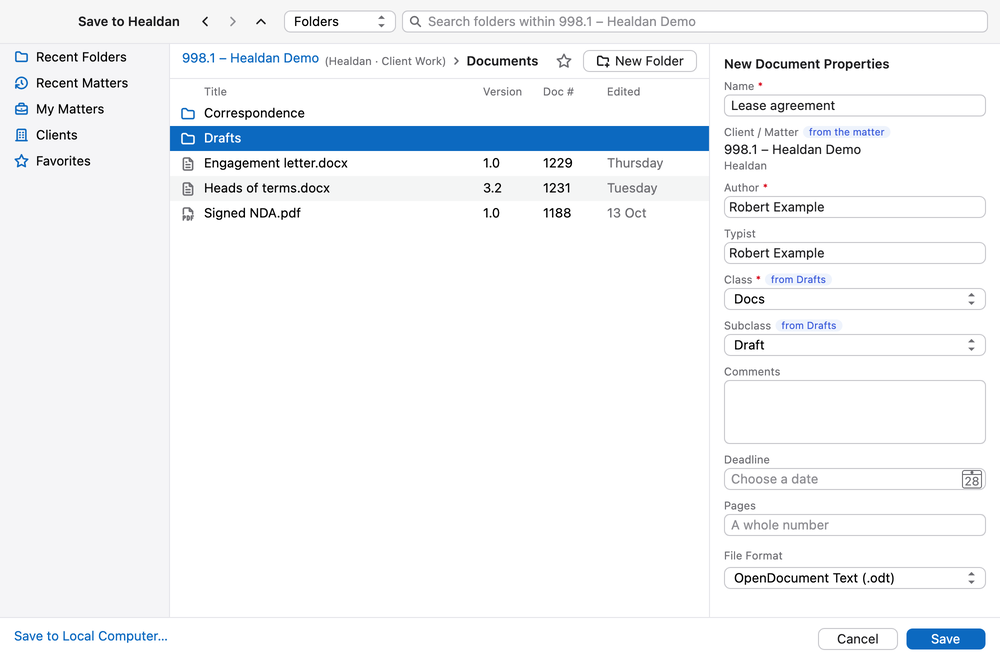
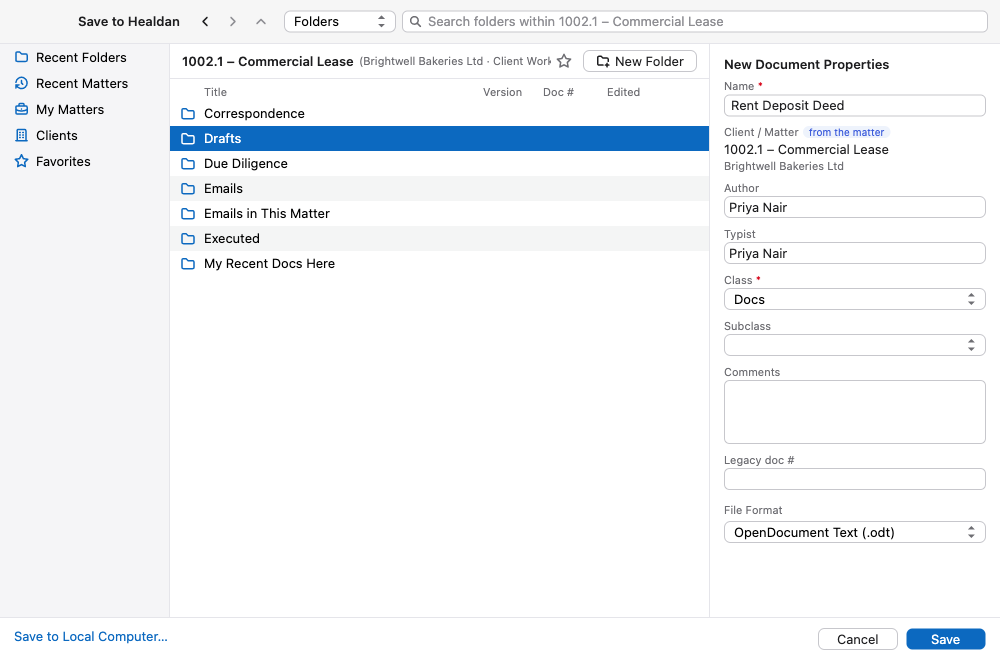
Retake the helper's screenshots from the demo firm
Six of the helper's seven pictures were offscreen renders with test data (Healdan
Demo, Robert Example, Jane Smith, MacBook). They are now screenshots of the real
helper, run from source in London time and signed in to the demo stack as Priya
Nair, captured with Avalonia's Developer Tools: Sign In, Open from Healdan and the
warning for #54, checked out on a device named Office PC, Save to Healdan in
1002.1's Drafts, #32's Properties, and the window after LibreOffice was stopped
with #32 open. Their alt text, the examples that named the old data (here and on
three other pages) and the API page's examples now use the demo firm. Writing Docs
says how the helper's pictures are taken. Settings is still the render.

diff --git a/site/content/user/office/opening-documents/index.md b/site/content/user/office/opening-documents/index.md
@@ -3,9 +3,6 @@ title: Opening Documents
 weight: 3
 ---
 
-<!-- The pictures of the helper's windows on this page are renders of its real windows, drawn offscreen with test
-data, not screenshots. Replace them with screenshots during the owner's acceptance (M3 plan, Task 21). -->
-
 You can open a Healdan document in LibreOffice from the web page, or from inside LibreOffice. Either way, a document
 you can edit opens checked out to you, and one you can't opens as a read-only copy.
 
@@ -34,14 +31,14 @@ Double-clicking a document in the web page still shows its preview.
 Any of LibreOffice's ways of opening shows the **Open from Healdan** window: **⌘O**, **File › Open**, **Open File**
 in the Start Center, and **Healdan › Open from Healdan…**. So does **Open from Healdan…** in the helper's menu.
 
-![The Open from Healdan window: Recent Documents listed in the middle, Lease agreement.docx selected and checked out to you on MacBook, and its details on the right, under a header with its name, #1234 and v2.1, and Properties and Versions tabs, with Properties showing, its Client row under Matter](open-from-healdan.png)
+![The Open from Healdan window: Recent Documents listed in the middle, Particulars of Claim – Draft.docx selected and checked out to you on Office PC, and its details on the right, under a header with its name, #54 and v2.0, and Properties and Versions tabs, with Properties showing its thumbnail, its matter 1001.1 – Charter Dispute – MV Northern Star, its client, folder, author, Class and Subclass, when it was last saved, and that it's checked out to you on Office PC](open-from-healdan.png)
 
 - **On the left:** Recent Documents (where it starts), Checked Out to Me and Favorites, then Recent Matters, My
   Matters and Recent Folders to browse.
 - **In the middle:** each document's title, doc #, version, matter, and when it was last saved. Under the title,
-  who has it checked out: "checked out to you on MacBook", or "checked out to Jane Smith". The Matter column shows
+  who has it checked out: "checked out to you on Office PC", or "checked out to Jamie Clarke". The Matter column shows
   the matter's number: point at it to see the matter's name and its client.
-- **Matters** are listed with their client's name after them, in smaller type: `998.1 – Healdan Demo (Healdan)`.
+- **Matters** are listed with their client's name after them, in smaller type: `1002.1 – Commercial Lease (Brightwell Bakeries Ltd)`.
 - **On the right:** the selected document's details. A header names it, with its doc # and version, as in
   `#1234 · v2.1`. Its star adds the document to your Favorites, or takes it off. Two tabs sit under the header:
   - **Properties,** where each Open window starts, shows a small preview of the first page, when Healdan has made
@@ -80,7 +77,7 @@ A document opens as a read-only copy when:
 - you may read it but not edit it;
 - you ticked Open Read-Only, or chose an older version.
 
-Its title ends in "(read-only)", and a notice says why, such as "Opened read-only: Jane Smith has it checked out."
+Its title ends in "(read-only)", and a notice says why, such as "Opened read-only: Jamie Clarke has it checked out."
 LibreOffice opens it read-only. Nothing you do to it reaches the document: saving it shows Save as New Document
 instead, which files your changes as a new document (see
 [Editing and Versions](../editing-and-versions/#save-as-new-document)). The copy is deleted when you close it.
@@ -89,7 +86,7 @@ instead, which files your changes as a new document (see
 
 If you have the document checked out on another of your computers, the helper asks first:
 
-![The Checked Out on Another Computer window: Healdan's mark with a warning triangle, then #1234 is checked out to you on MacBook (LibreOffice), when it was last saved to Healdan, a warning that edits on MacBook that haven't reached Healdan won't be in this copy, and the Open Read-Only, Edit Here Instead and Cancel buttons](checked-out-on-another-computer.png)
+![The Checked Out on Another Computer window: Healdan's mark with a warning triangle, then #54 is checked out to you on Office PC (LibreOffice), when it was last saved to Healdan, a warning that edits on Office PC that haven't reached Healdan won't be in this copy, and the Open Read-Only, Edit Here Instead and Cancel buttons](checked-out-on-another-computer.png)
 
 - **Open Read-Only** opens a read-only copy here, and leaves the check-out where it is.
 - **Edit Here Instead** moves the check-out to this computer and opens the document for editing. What you saved on

diff --git a/site/content/user/office/saving-to-healdan/index.md b/site/content/user/office/saving-to-healdan/index.md
@@ -3,9 +3,6 @@ title: Saving to Healdan
 weight: 2
 ---
 
-<!-- The picture of the Save to Healdan window is a render of the helper's real window, drawn offscreen with test
-data, not a screenshot. Replace it with a screenshot during the owner's acceptance (M3 plan, Task 21). -->
-
 A new document goes into Healdan the first time you save it, through the **Save to Healdan** window. It works the
 same in Writer, Calc, Impress and Draw.
 
@@ -17,7 +14,7 @@ On a document that isn't in Healdan yet, any of these opens Save to Healdan:
 - **Healdan › Save to Healdan…**, or **Save to Healdan** on the Healdan toolbar;
 - **Save** when LibreOffice asks whether to save your changes as you close the document.
 
-![The Save to Healdan window: places on the left, matter 998.1 – Healdan Demo's Documents folder in the middle, its client Healdan and Store Client Work beside the matter, with the Drafts folder selected, and the new document's properties on the right, Client / Matter showing the matter with Healdan under it, with a File Format pop-up under the properties showing OpenDocument Text (.odt)](save-to-healdan.png)
+![The Save to Healdan window: places on the left, matter 1002.1 – Commercial Lease in the middle, its client Brightwell Bakeries Ltd and Store Client Work beside the matter, with the Drafts folder selected, and the new document's properties on the right: Name Rent Deposit Deed, Client / Matter showing the matter with Brightwell Bakeries Ltd under it, Author and Typist Priya Nair, Class Docs, Subclass, Comments and Legacy doc #, with a File Format pop-up under the properties showing OpenDocument Text (.odt)](save-to-healdan.png)
 
 ## Choosing a Folder
 
@@ -31,9 +28,9 @@ The window starts on **Recent Folders**. Choose where the document goes from the
 | Clients | nothing by itself: it sets the search to Clients, so you can type a client's number or name |
 | Favorites | your favourite folders: see [Favourites](#favourites) |
 
-- **Matters** are listed with their client's name after them, in smaller type: `998.1 – Healdan Demo (Healdan)`.
+- **Matters** are listed with their client's name after them, in smaller type: `1002.1 – Commercial Lease (Brightwell Bakeries Ltd)`.
 - **Double-click a matter or a folder** to go into it. The bar above the list shows where you are, from the matter
-  down, with the matter's client and Store after it: `998.1 – Healdan Demo (Healdan · Client Work) › Documents`.
+  down, with the matter's client and Store after it: `1002.1 – Commercial Lease (Brightwell Bakeries Ltd · Client Work) › Drafts`.
   Click any part of it to go back there. The arrows at the top go back, forward and up.
 - **Click a folder in the list** to file into it, or leave nothing selected to file into the folder shown.
 - **Save turns on** once you've chosen a folder that can hold documents, inside a matter, and every required
@@ -42,8 +39,8 @@ The window starts on **Recent Folders**. Choose where the document goes from the
 ### Searching
 
 The picker beside the search box chooses what to search for: **Folders**, **Documents**, **Matters** or **Clients**.
-Inside a matter, Folders and Documents search only that matter: the box says so, as in "Search folders within 998.1
-– Healdan Demo". Type and press Enter.
+Inside a matter, Folders and Documents search only that matter: the box says so, as in "Search folders within
+1002.1 – Commercial Lease". Type and press Enter.
 
 - **A matter number** such as `998.1`, with Matters chosen, finds that matter.
 - **`#1234`** and Enter goes to the folder of document 1234, with the document selected.

diff --git a/site/content/developer/api.md b/site/content/developer/api.md
@@ -32,7 +32,7 @@ token, as `Authorization: Bearer`. With `curl`, against a stack on your own mach
 ```bash
 BASE=http://127.0.0.1:8080        # or your install's address, such as https://docs.example.org
 curl -s -X POST "$BASE/api/v1/auth/tokens" -H 'Content-Type: application/json' \
-  -d '{"username": "jsmith", "password": "…", "name": "Word on MacBook"}'
+  -d '{"username": "pnair", "password": "…", "name": "Word on Office PC"}'
 ```
 
 The answer is `201`:
@@ -41,9 +41,9 @@ The answer is `201`:
 {
   "token": "hd_bm90LWEtcmVhbC1kZXZpY2UtdG9rZW4tZXhhbXBsZSE",
   "id": 12,
-  "name": "Word on MacBook",
+  "name": "Word on Office PC",
   "expiresAt": "2027-10-24T09:15:00Z",
-  "user": { "id": 7, "username": "jsmith", "name": "Jane Smith", "email": "jane@example.org", "language": "en", "admin": false }
+  "user": { "id": 7, "username": "pnair", "name": "Priya Nair", "email": "priya.nair@ashcombe-reeve.example", "language": "en", "admin": false }
 }
 ```
 
@@ -66,7 +66,7 @@ curl -s "$BASE/api/v1/me" -H "Authorization: Bearer $TOKEN"
 
 ## Device Sign-Ins
 
-Each token is one device's sign-in, such as Word on a MacBook. `name` labels it, so people can tell their devices
+Each token is one device's sign-in, such as Word on a laptop. `name` labels it, so people can tell their devices
 apart; a blank name is "Unnamed device".
 
 - **A token stops working** when it hasn't been used for 30 days, 365 days after sign-in at the latest
@@ -95,9 +95,9 @@ Errors are RFC 9457 problems, sent as `application/problem+json`:
   "type": "https://healdan.com/problems/checked-out",
   "title": "Checked out",
   "status": 409,
-  "detail": "Document #1234 is checked out to Jane Smith.",
+  "detail": "Document #1234 is checked out to Jamie Clarke.",
   "code": "checked-out",
-  "hold": { "kind": "checkout", "by": { "id": 5, "name": "Jane Smith" }, "since": "2026-10-23T15:00:00Z" }
+  "hold": { "kind": "checkout", "by": { "id": 8, "name": "Jamie Clarke" }, "since": "2026-10-23T15:00:00Z" }
 }
 ```
 

diff --git a/site/content/user/office/editing-and-versions/index.md b/site/content/user/office/editing-and-versions/index.md
@@ -3,9 +3,6 @@ title: Editing and Versions
 weight: 4
 ---
 
-<!-- The picture of the Properties window is a render of the helper's real window, drawn offscreen with test data,
-not a screenshot. Replace it with a screenshot during the owner's acceptance (M3 plan, Task 21). -->
-
 While a Healdan document is open in LibreOffice, it's checked out to you, and the window is the helper's local copy
 of it. You edit and save as usual, and the helper sends each save to Healdan.
 
@@ -67,7 +64,7 @@ Choose where it goes, change what you need to, and save. Then:
 Choose **Healdan › Properties…**, or **Properties** on the Healdan toolbar, to see or change the document's
 properties without leaving LibreOffice. They're the properties of the Ext. Properties tab in the web page.
 
-![The Properties window for #1234: a header with the document's icon, Lease agreement.docx, and #1234 · v2.1, then Client / Matter 998.1 – Healdan Demo from the matter, with the client Healdan under it, Author and Typist, Class and Subclass from Drafts, Comments, and two more properties, with Cancel and Save](properties.png)
+![The Properties window for #32: a header with the document's icon, Subscription Agreement – Draft.docx, and #32 · v2.0, then Client / Matter 1003.1 – Series A Investment from the matter, with the client Kestrel Software Ltd under it, Author Helen Ashcombe, Typist Chris Doyle, Class Agreements, Subclass Draft, Comments and Legacy doc #, with Cancel and Save](properties.png)
 
 - **Client / Matter,** marked "from the matter", shows the matter, with its client's name under it. It can't be
   changed here.

diff --git a/site/content/user/office/when-things-go-wrong/index.md b/site/content/user/office/when-things-go-wrong/index.md
@@ -3,9 +3,6 @@ title: When Things Go Wrong
 weight: 6
 ---
 
-<!-- The picture of the crash window is a render of the helper's real window, drawn offscreen with test data, not a
-screenshot. Replace it with a screenshot during the owner's acceptance (M3 plan, Task 21). -->
-
 The helper's first rule is that nothing you save is lost. When something goes wrong, it keeps your work on your Mac
 and tells you, through a notification or, when it needs an answer, a window of its own.
 
@@ -40,7 +37,7 @@ Start **Healdan Helper** from your Applications folder.
 The document stays checked out to you, and your local copy is kept as you last saved it. Within about ten seconds of
 LibreOffice going, or as soon as the helper starts after your Mac restarts, this window opens:
 
-![The crash window: Healdan's mark with a warning triangle, and the headline Lease agreement #1234 v2.1 closed unexpectedly. It's still checked out to you, and your local copy is kept. With the Send and Check In and Reopen buttons](after-a-crash.png)
+![The crash window: Healdan's mark with a warning triangle, and the headline Subscription Agreement – Draft #32 v2.0 closed unexpectedly. It's still checked out to you, and your local copy is kept. With the Send and Check In and Reopen buttons](after-a-crash.png)
 
 - **Reopen** opens your kept copy, with what you last saved, and carries on as before.
 - **Send and Check In** sends what Healdan hasn't had yet, and checks the document in.

diff --git a/site/content/developer/writing-docs.md b/site/content/developer/writing-docs.md
@@ -89,6 +89,13 @@ what's left.
   and give each one alt text.
 - Take them at a true 1280 × 800, with headless Chrome: the browser pane scales the page down. Start Chrome with
   `TZ=Europe/London`, the demo stack's time zone, so the times it shows are the firm's, not your computer's.
+- The Healdan Helper's windows come from a [helper run from source](../desktop-clients/#running-the-helper-from-source),
+  started with `TZ=Europe/London` and signed in to the demo stack as `pnair`. For the pictures only, add the
+  `AvaloniaUI.DiagnosticsSupport` package and `this.AttachDeveloperTools(o => o.EnableDiscovery = true)` to a local
+  build, without committing them. Avalonia's Developer Tools (`avdt mcp`) then find each window, click and type in it,
+  and save it as a PNG. The channel's routes open the windows the menu bar doesn't (see
+  [The Channel](../desktop-clients/#the-channel)). A computer the pictures name is a neutral one, such as a device
+  signed in through the API as "Healdan Helper on Office PC".
 - A pull request that changes a screen updates the screenshots it makes wrong.
 
 ## Adding or Retiring a Manual

diff --git a/site/content/user/working-with-matters/stores-and-matter-workspaces.md b/site/content/user/working-with-matters/stores-and-matter-workspaces.md
@@ -13,7 +13,7 @@ Stores and decides who can see each one. Stores show at the top of the folder tr
 ## Matters
 
 - **A matter belongs to a client.** Both have numbers. A matter is shown as its client's number, a dot, its own
-  number, an en dash and its name: `998.1 – Healdan Demo` is matter 1 of client 998. Your install may call matters
+  number, an en dash and its name: `998.1 – Firm Policies` is matter 1 of client 998. Your install may call matters
   *projects* instead.
 - **A matter's workspace** is its folder in a Store. It's built from a workspace template, so matters of the same
   kind start with the same folders, for example Documents, Secured Documents, Emails, and search folders such as

diff --git a/site/content/install/known-limitations.md b/site/content/install/known-limitations.md
@@ -32,5 +32,5 @@ weight: 10
 - **Dates west of UTC in the web page.** The helper treats a date property as a calendar date, stored as midnight
   UTC. West of UTC, as in the Americas, the web page shows such a date as the day before.
 - **A new document's check-out has no app.** For a document filed from LibreOffice and still open, another of the
-  person's computers warns that it's "checked out to you on MacBook", without "(LibreOffice)". Once it's opened again,
+  person's computers warns that it's "checked out to you on Office PC", without "(LibreOffice)". Once it's opened again,
   the warning names the app.

diff --git a/site/content/user/finding-documents/my-matters-and-recent-matters.md b/site/content/user/finding-documents/my-matters-and-recent-matters.md
@@ -19,7 +19,7 @@ can change the 30 days. A matter leaves the list once you haven't worked in it f
 
 ## In Both Lists
 
-- **Each entry** shows the matter, then its client's name in smaller text: `998.1 – Healdan Demo (Healdan)`. Hover
+- **Each entry** shows the matter, then its client's name in smaller text: `1002.1 – Commercial Lease (Brightwell Bakeries Ltd)`. Hover
   over an entry that's cut off to see all of it.
 - **Click an entry** to open the matter in the folder tree below.
 - **A matter you can no longer open,** or one that's been deleted, doesn't appear.
